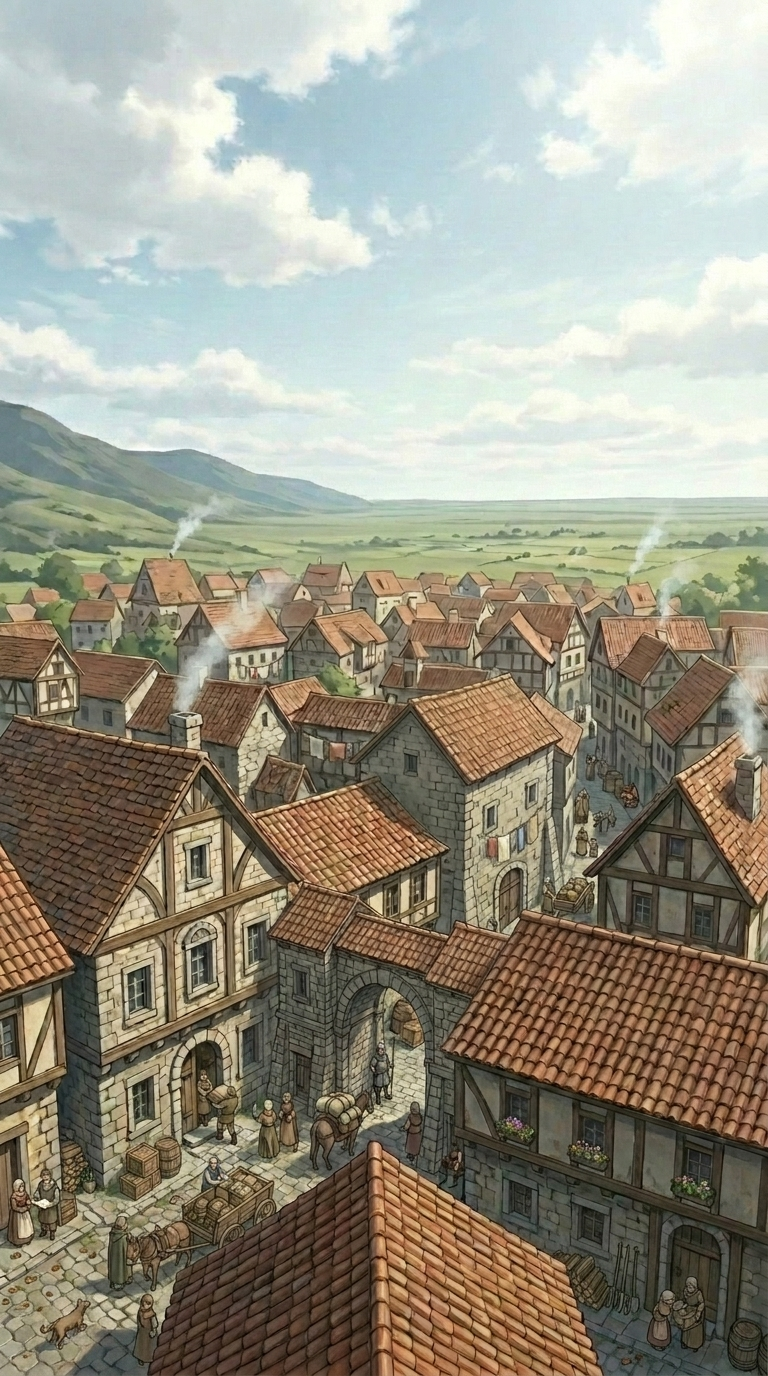
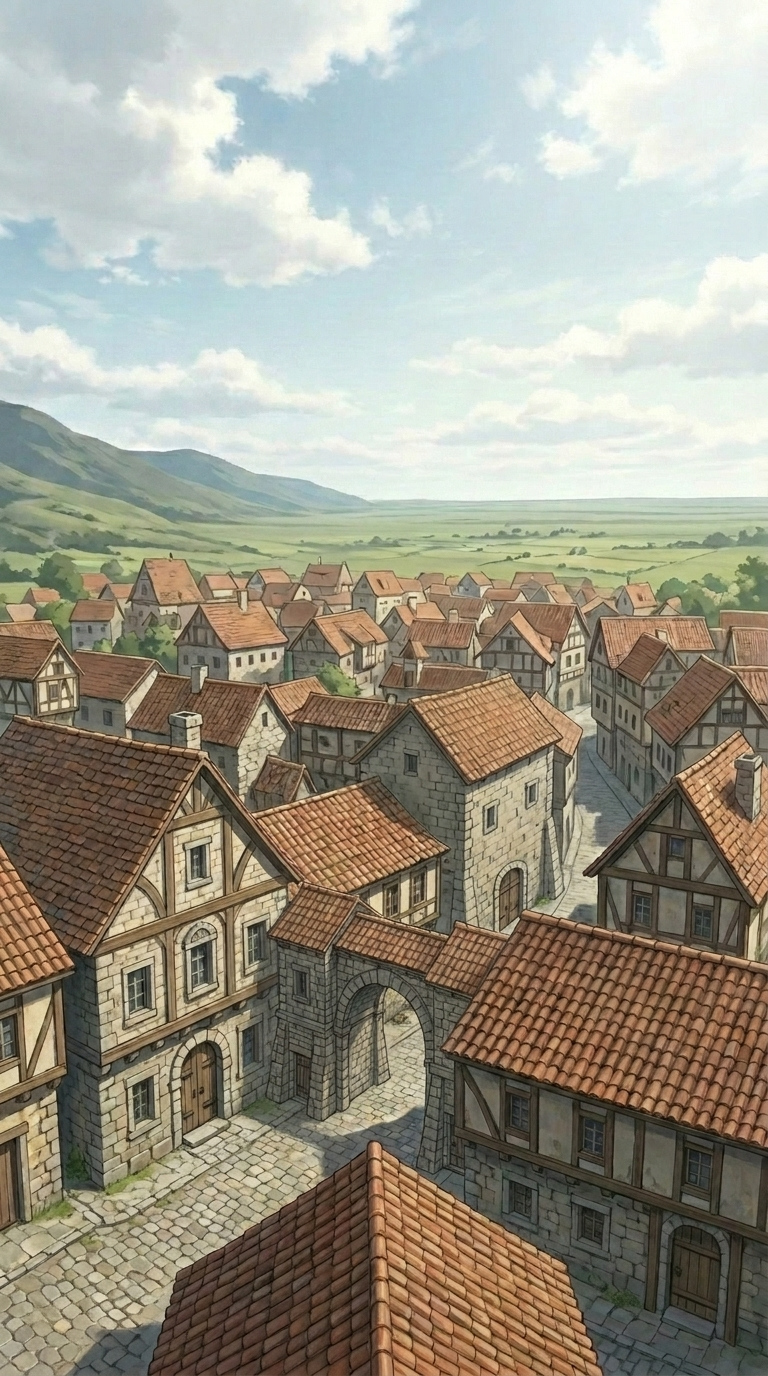
FV: 安藤準 データ更新 (2026/6/7)

diff --git a/クライアント/ah_19780313_001/FV_MASTER_安藤準.md b/クライアント/ah_19780313_001/FV_MASTER_安藤準.md
@@ -5,9 +5,9 @@
 　性別　　：男
 　天中殺　：申酉
 　生日中殺：子丑
-　生成日　：20260606
+　生成日　：20260607
 　現在版　：v01
-　更新履歴：v01｜20260606｜BLOCK A・B・C・E(FV_R+T01a+T01b+T01c+T02)生成完了
+　更新履歴：v01｜20260607｜BLOCK A・B・C・E(FV_R+T01a+T01b+T01c+T02)生成完了
 
 ## BLOCK A｜FV_GEO_　地形データ
 　FV_GEO_蔵干　：年（己・―・丁）月（―・―・乙）日（辛・丁・戊）
